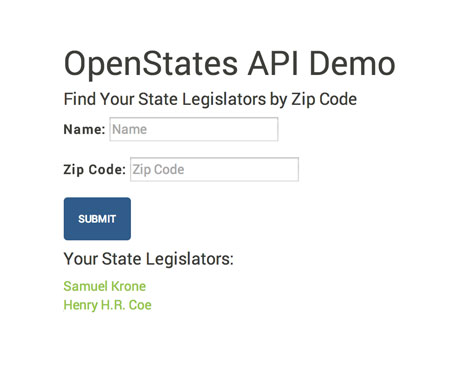
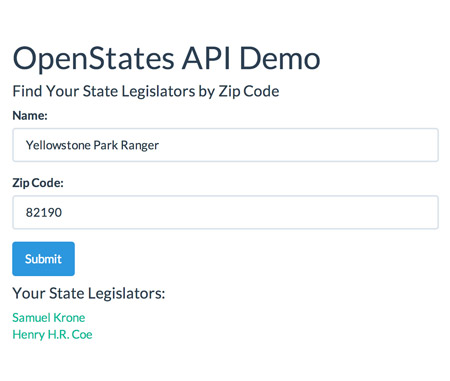
Updated openstates demo description and image

diff --git a/index.php b/index.php
@@ -109,9 +109,12 @@
                   <header>
                     <h3>OpenStates API Demo</h3>
                   </header>
-                  <p>By using the <a target="_blank" href="http://openstates.org/">OpenStates API</a>
-                  in combination with Yahoo's geolocation API and <strong>async.js</strong>, we can
-                  load our state legislators and avoid callback hell!</p>
+                  <p>
+                    By using the <a target="_blank" href="http://openstates.org/">OpenStates API</a>
+                    in combination with Yahoo's geolocation API and <strong>async.js</strong>, we can
+                    load our state legislators and avoid callback hell! Error messages with
+                    <a href="https://github.com/t4t5/sweetalert" target="_blank">SweetAlert</a> too.
+                  </p>
                 </section>
             </div>
             <div class="4u">
